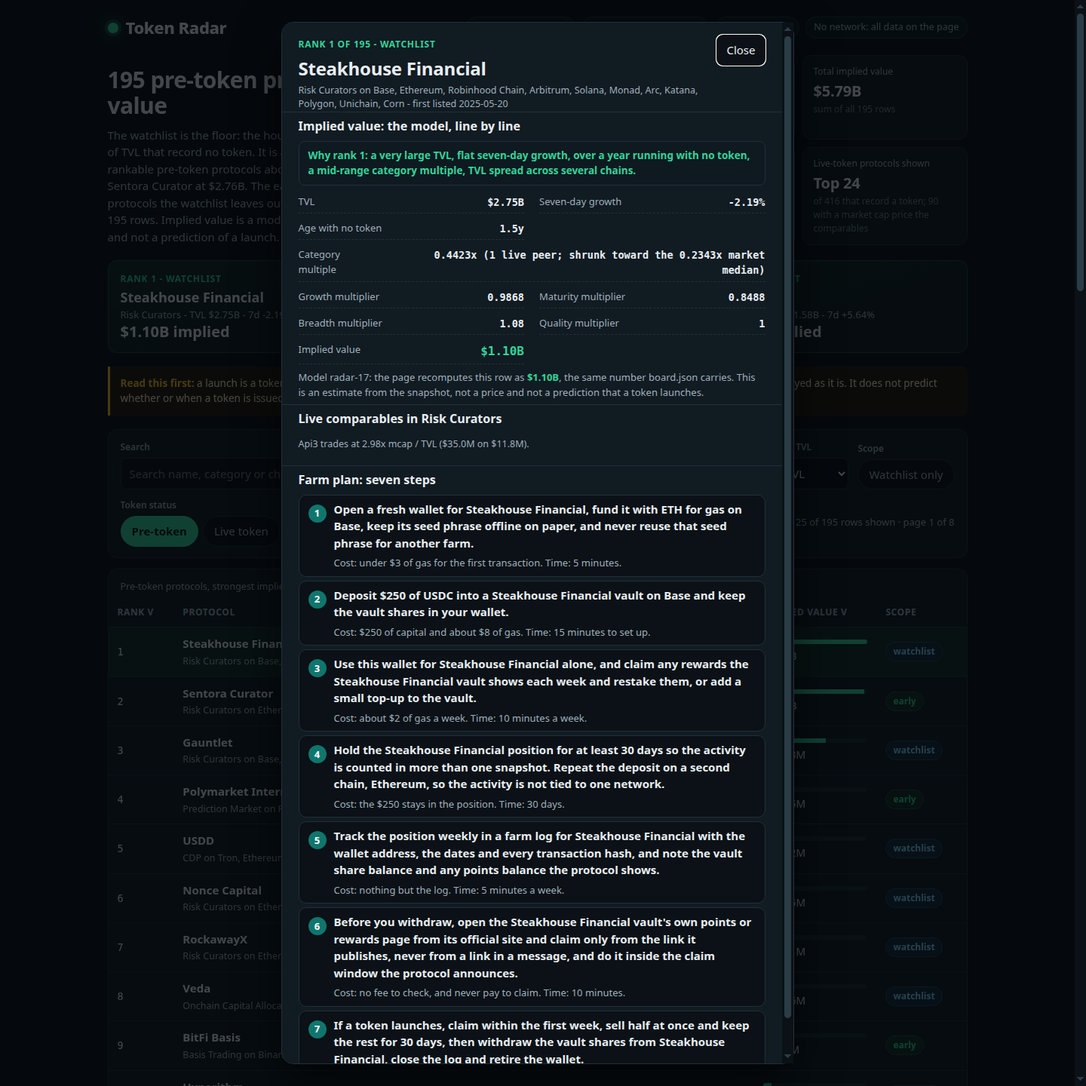
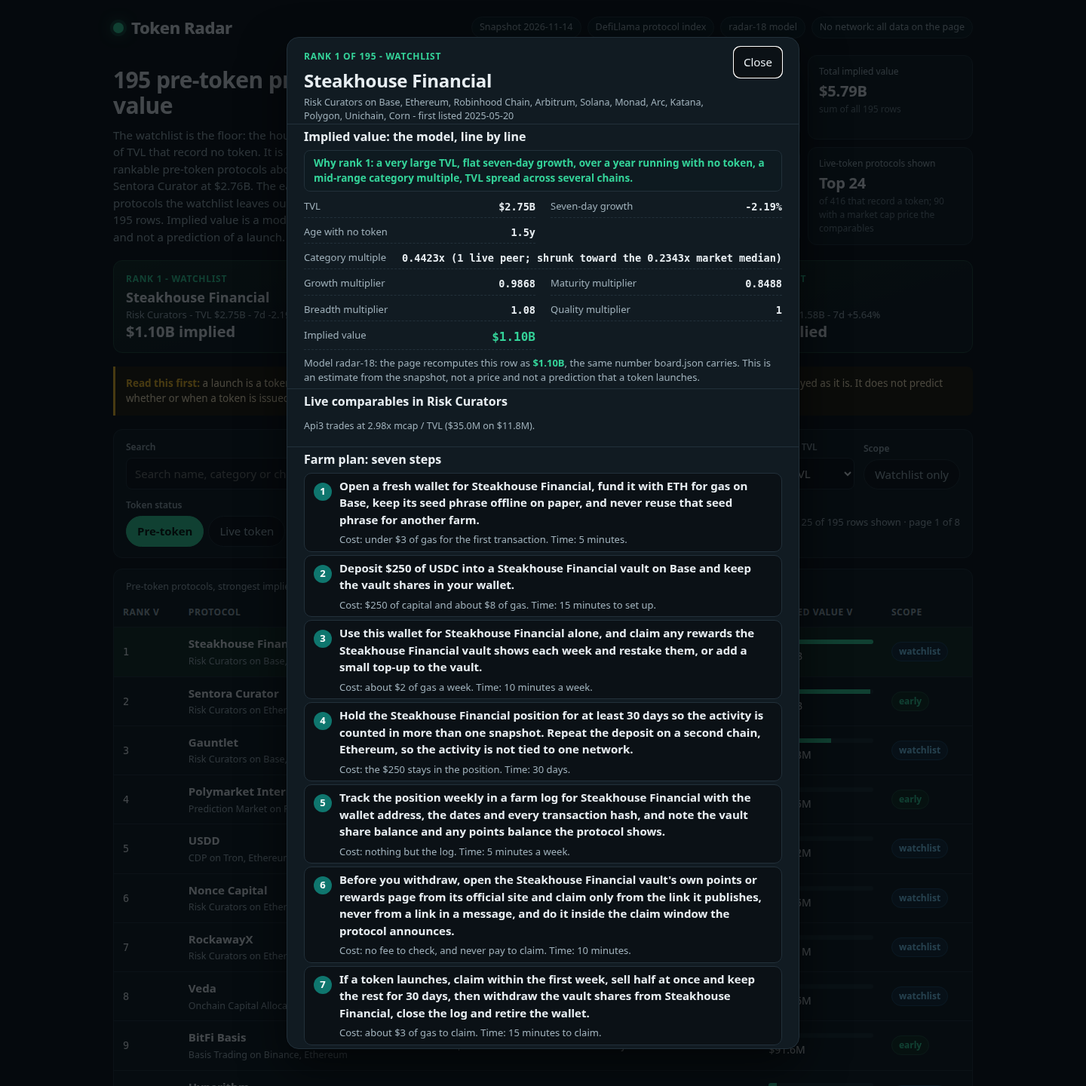
Token Radar radar-18: fix DEX shadow over Indexes, give Leveraged Farming and Uncollateralized Lending their own shapes, settle USDD, DeFi Saver, dTAO and Polymarket, stop inventing claim pages, fit the detail dialog
- includes('dex') also matched Indexes, so Set Protocol was told to LP
  into a pool instead of buying its index token; the test is now the
  category itself, and the unreachable index shape is live
- Leveraged Farming (3F, Origami) no longer shares the DEX shape: both
  deposit into a leveraged vault and keep the receipt token
- Uncollateralized Lending (3Jane) no longer shares the collateralized
  lending shape: deposit USDC into the credit market, keep the USD3-style
  receipt token, no collateral and no borrow against the deposit
- PLAN_CORRECTIONS gains USDD (vaults take TRX/USDT/WBTC, never USDC;
  yield is sUSDD), DeFi Saver (a management layer that takes no
  deposits), Bittensor dTAO (staking, not an AMM pool) and Polymarket
  (no points program; claim step only, to its pUSD rewards page)
- Lightning's claim step no longer names a routing rewards page that
  does not exist; routing fees land in the channel balance
- RWA action is 'Buy or mint' and the exit 'sell or redeem' (Lofty sells
  property shares, it mints nothing)
- Detail dialog tightened so all seven steps with cost lines fit in a
  1440px view; screenshots retaken for the radar-18 label
- Board unchanged: same 195 rows, ranks and implied values; only farm
  plans move, on 25 rows

diff --git a/lib/model.ts b/lib/model.ts
@@ -1,4 +1,4 @@
-// Token Radar's model (radar-16): one sealed snapshot in, one ranked board out.
+// Token Radar's model (radar-18): one sealed snapshot in, one ranked board out.
 //
 // The board covers every slug in the snapshot's watchlist (the floor, never a
 // ceiling) plus every other rankable pre-token protocol the watchlist leaves
@@ -122,7 +122,7 @@ export const MODEL: ModelConstants = {
 };
 
 /** The model's version label: the dashboard names it. */
-export const MODEL_VERSION = 'radar-17';
+export const MODEL_VERSION = 'radar-18';
 
 /** How many live-token protocols the Live token view carries, by market cap. */
 export const LIVE_ROWS = 24;
@@ -511,13 +511,28 @@ function actionFor(p: SnapshotProtocol, capital: number, chain: string): string 
   const name = p.name;
   if (c.includes('collateral market')) return `Deposit $${capital} of wstETH into a ${name} vault on ${chain}, delegate the collateral to an operator securing a network, and keep the vault shares in your wallet.`;
   if (c.includes('interest rate')) return `Deposit $${capital} of USDC as margin on ${name} on ${chain} and open one small long or short position on a funding-rate market, then hold it to maturity.`;
+  if (c.includes('uncollateralized')) return `Deposit $${capital} of USDC into the ${name} credit market on ${chain} to fund uncollateralized loans and keep the yield-bearing receipt token in your wallet.`;
   if (c.includes('lend') || c.includes('cdp') || c.includes('collateral')) return `Supply $${capital} of USDC to ${name} on ${chain} as collateral and borrow a small amount against it, then repay the borrow.`;
-  if (c.includes('dex') || c.includes('leveraged farm')) return `Provide $${capital} of liquidity to ${name}'s main pool on ${chain} in a balanced pair and keep the position open.`;
+  if (c === 'dexs') return `Provide $${capital} of liquidity to ${name}'s main pool on ${chain} in a balanced pair and keep the position open.`;
+  // A leveraged vault is not a pool: 3F loops tokenized RWAs through
+  // Morpho and Origami loops yield-bearing assets through lending
+  // markets, and neither has a main pool to provide liquidity to. The
+  // old shape lumped them with the DEXs, so both plans told their farmer
+  // to LP into a pool that does not exist. And the DEX test used to be
+  // includes('dex'), which also caught Indexes — "indexes" contains
+  // "dex" — so Set Protocol's plan told its farmer to LP into a pool
+  // instead of buying its index token; the index shape below it was
+  // unreachable. The test is now the category itself.
+  if (c.includes('leveraged farm')) return `Deposit $${capital} of USDC into a ${name} leveraged vault on ${chain} and keep the vault receipt token in your wallet.`;
   if (c.includes('yield') || c.includes('curator') || c.includes('allocator') || c.includes('vault')) return `Deposit $${capital} of USDC into a ${name} vault on ${chain} and keep the vault shares in your wallet.`;
   if (c.includes('perpetual') || c.includes('derivative')) return `Deposit $${capital} of USDC as margin on ${name} on ${chain}, open one small hedged trade, then close it.`;
   if (c.includes('prediction')) return `Fund your ${name} account with $${capital} on ${chain} and place one small market position.`;
   if (c.includes('stable')) return `Mint or deposit $${capital} of the stable asset through ${name} on ${chain} and hold it in your wallet.`;
-  if (c.includes('rwa')) return `Mint $${capital} of ${name}'s yield-bearing asset on ${chain} and hold it for the full period.`;
+  // "Buy or mint": some RWA assets are minted (OpenTrade, Plume Vaults)
+  // and some are bought on a marketplace (Lofty sells tokenized property
+  // shares, it mints nothing for the buyer), so one verb was wrong for
+  // half the category.
+  if (c.includes('rwa')) return `Buy or mint $${capital} of ${name}'s yield-bearing asset on ${chain} and hold it for the full period.`;
   if (c.includes('insurance')) return `Buy $${capital} of cover from ${name} on ${chain} and keep the policy active.`;
   if (c.includes('basis') || c.includes('options')) return `Deposit $${capital} of USDC into ${name}'s strategy on ${chain} and keep the position open.`;
   if (c.includes('liquidity manager')) return `Deposit $${capital} of USDC into a ${name} managed pool on ${chain} and keep the managed position open.`;
@@ -558,8 +573,10 @@ function weeklyActionFor(p: SnapshotProtocol): string {
   const name = p.name;
   if (c.includes('collateral market')) return `Check the rewards the ${name} vault paid that week and leave them compounding instead of withdrawing them.`;
   if (c.includes('interest rate')) return `Check the funding-rate position on ${name} each week and adjust it when the underlying rate moves.`;
+  if (c.includes('uncollateralized')) return `Check the yield the ${name} credit market paid that week and leave it compounding instead of withdrawing it.`;
   if (c.includes('lend') || c.includes('cdp') || c.includes('collateral')) return `Repay a small part of the borrow on ${name} and borrow it back, so the position moves every week instead of sitting still.`;
-  if (c.includes('dex') || c.includes('leveraged farm')) return `Swap a small amount through ${name}'s main pool each week, alternating the direction, so the wallet trades as well as holds.`;
+  if (c === 'dexs') return `Swap a small amount through ${name}'s main pool each week, alternating the direction, so the wallet trades as well as holds.`;
+  if (c.includes('leveraged farm')) return `Check the vault's leverage ratio on ${name} each week and add a small top-up when it drifts from its target, so the position does not sit untouched.`;
   if (c.includes('yield') || c.includes('curator') || c.includes('allocator') || c.includes('vault')) return `Claim any rewards the ${name} vault shows each week and restake them, or add a small top-up to the vault.`;
   if (c.includes('perpetual') || c.includes('derivative')) return `Open and close one small hedged trade on ${name} each week, keeping the size tiny and the margin untouched.`;
   if (c.includes('prediction')) return `Settle one small market position on ${name} each week and open the next one only after the first closes.`;
@@ -590,8 +607,10 @@ function trackFor(p: SnapshotProtocol): string {
   let note: string;
   if (c.includes('collateral market')) note = `the vault share balance, the operator it is delegated to and any points balance the protocol shows.`;
   else if (c.includes('interest rate')) note = `the margin balance and the fixed rate the position locked in.`;
+  else if (c.includes('uncollateralized')) note = `the receipt token balance and the yield it paid that week.`;
   else if (c.includes('lend') || c.includes('cdp') || c.includes('collateral')) note = `the borrow amount, the collateral ratio and the health factor.`;
-  else if (c.includes('dex') || c.includes('leveraged farm')) note = `the pool share and the fees the position earned.`;
+  else if (c === 'dexs') note = `the pool share and the fees the position earned.`;
+  else if (c.includes('leveraged farm')) note = `the vault receipt token balance, the leverage ratio and the yield it earned that week.`;
   else if (c.includes('yield') || c.includes('curator') || c.includes('allocator') || c.includes('vault')) note = `the vault share balance and any points balance the protocol shows.`;
   else if (c.includes('perpetual') || c.includes('derivative')) note = `the margin balance and the outcome of each trade.`;
   else if (c.includes('prediction')) note = `each settled position and its outcome.`;
@@ -658,9 +677,18 @@ function gasTokenFor(chain: string): string | null {
 function claimFor(p: SnapshotProtocol): string {
   const c = (p.category ?? '').toLowerCase();
   const name = p.name;
+  // Two claim steps the generic page cannot carry. A Lightning channel
+  // pays routing fees straight into the channel balance: there is no
+  // rewards page, and nothing to claim. And an uncollateralized credit
+  // market pays its yield through the receipt token, with no rewards
+  // page announced either, so the step says to check for an
+  // announcement instead of naming a page that does not exist.
+  if (c.includes('payments')) return `Check the channel balance in your own node software for the routing fees the channel earned — they land in the balance automatically, there is no rewards page to claim from, and never pay to claim or follow a claim link in a message.`;
+  if (c.includes('uncollateralized')) return `Before you withdraw, check ${name}'s own site for any rewards announcement and claim only from the link it publishes, never from a link in a message; if it announces no rewards, there is nothing to claim.`;
   let page: string;
   if (c.includes('yield') || c.includes('curator') || c.includes('allocator') || c.includes('vault')) page = `the ${name} vault's own points or rewards page`;
-  else if (c.includes('dex') || c.includes('leveraged farm')) page = `${name}'s own pool incentives or points page`;
+  else if (c === 'dexs') page = `${name}'s own pool incentives or points page`;
+  else if (c.includes('leveraged farm')) page = `${name}'s own leveraged vault rewards page`;
   else if (c.includes('collateral market')) page = `${name}'s own vault rewards page`;
   else if (c.includes('interest rate')) page = `${name}'s own funding-rate rewards page`;
   else if (c.includes('lend') || c.includes('cdp') || c.includes('collateral')) page = `${name}'s own lending rewards or points page`;
@@ -677,7 +705,6 @@ function claimFor(p: SnapshotProtocol): string {
   else if (c.includes('cedefi')) page = `${name}'s own yield rewards page`;
   else if (c === 'farm') page = `${name}'s own farm rewards page`;
   else if (c.includes('anchor btc') || c.includes('decentralized btc')) page = `${name}'s own BTC rewards page`;
-  else if (c.includes('payments')) page = `${name}'s own routing rewards page`;
   else if (c.includes('otc')) page = `${name}'s own trading rewards page`;
   else if (c === 'restaking') page = `${name}'s own restaking rewards page`;
   else if (c.includes('governance')) page = `${name}'s own governance rewards page`;
@@ -694,14 +721,16 @@ function exitFor(p: SnapshotProtocol): string {
   const head = `If a token launches, claim within the first week, sell half at once and keep the rest for 30 days, then `;
   const tail = `, close the log and retire the wallet.`;
   if (c.includes('yield') || c.includes('curator') || c.includes('allocator') || c.includes('vault')) return `${head}withdraw the vault shares from ${name}${tail}`;
-  if (c.includes('dex') || c.includes('leveraged farm')) return `${head}remove the liquidity from ${name}${tail}`;
+  if (c === 'dexs') return `${head}remove the liquidity from ${name}${tail}`;
+  if (c.includes('leveraged farm')) return `${head}redeem the vault receipt token from ${name} and withdraw the underlying asset${tail}`;
   if (c.includes('collateral market')) return `${head}withdraw the collateral from the ${name} vault${tail}`;
   if (c.includes('interest rate')) return `${head}close the funding-rate position on ${name}${tail}`;
+  if (c.includes('uncollateralized')) return `${head}withdraw the deposit from the ${name} credit market${tail}`;
   if (c.includes('lend') || c.includes('cdp') || c.includes('collateral')) return `${head}repay the borrow, withdraw the collateral from ${name}${tail}`;
   if (c.includes('perpetual') || c.includes('derivative')) return `${head}close any open trade, withdraw the margin from ${name}${tail}`;
   if (c.includes('prediction')) return `${head}close any open position on ${name}${tail}`;
   if (c.includes('stable')) return `${head}redeem the stable asset from ${name}${tail}`;
-  if (c.includes('rwa')) return `${head}redeem the yield-bearing asset from ${name}${tail}`;
+  if (c.includes('rwa')) return `${head}sell or redeem the yield-bearing asset from ${name}${tail}`;
   if (c.includes('insurance')) return `${head}cancel the cover from ${name}${tail}`;
   if (c.includes('basis') || c.includes('options')) return `${head}close the strategy position on ${name}${tail}`;
   if (c.includes('liquidity manager')) return `${head}remove the managed liquidity from ${name}${tail}`;
@@ -848,6 +877,62 @@ const PLAN_CORRECTIONS: Record<string, PlanCorrection> = {
     why: 'The snapshot lists Abstract\u2019s chains as ["Ethereum"] — it settles on Ethereum — but Abstract is its own Ethereum L2 network, and its gas is ETH paid on Abstract, not on Ethereum mainnet.',
     chainLabel: 'Abstract',
     gasToken: 'ETH',
+  },
+  // USDD 2.0 is a vault stablecoin, so the CDP shape is half right: a
+  // farmer does deposit collateral and mint USDD. But the shape names
+  // USDC as the collateral, and USDD vaults take TRX, sTRX, USDT or
+  // WBTC (ETH and WBTC on Ethereum), never USDC — USDC only swaps 1:1
+  // for USDD through the Peg Stability Module. And the yield does not
+  // come from a rewards page: the minted USDD is staked as sUSDD, and
+  // the staking rate accrues automatically in the sUSDD exchange rate.
+  // (DefiLlama stablecoin page; BingX USDD 2.0 guide.)
+  usdd: {
+    why: 'DefiLlama lists USDD under CDP, so the CDP shape would tell its farmer to supply USDC as collateral — but USDD 2.0 vaults take TRX, sTRX, USDT or WBTC, never USDC, and the yield comes from staking the minted USDD as sUSDD.',
+    action: (p, capital, chain) => `Stake $${capital} of TRX in a USDD vault on ${chain} to mint USDD, then stake the USDD as sUSDD to earn the staking rate, and keep the sUSDD in your wallet.`,
+    weekly: (p) => `Check the sUSDD balance and the staking rate ${p.name} shows each week, and add a small TRX top-up to the vault when the balance is flat.`,
+    track: (p) => `Track the position weekly in a farm log for ${p.name} with the wallet address, the dates and every transaction hash, and note the vault collateral ratio, the sUSDD balance and the staking rate it shows.`,
+    claim: (p) => `sUSDD yield accrues automatically in its exchange rate, so there is no rewards page to claim from — check the rate on the official ${p.name} page, and never pay to claim or follow a claim link in a message.`,
+    exit: (p) => `If a token launches, claim within the first week, sell half at once and keep the rest for 30 days, then redeem the sUSDD from ${p.name} for USDD, repay the vault mint and withdraw the TRX collateral, close the log and retire the wallet.`,
+  },
+  // DeFi Saver is a non-custodial management layer, not a protocol that
+  // takes deposits: "Your assets are never deposited on DeFi Saver —
+  // we're just an additional layer between you and the protocols." The
+  // CDP shape would tell its farmer to supply USDC to DeFi Saver itself
+  // as collateral and borrow against it, which no screen on the site
+  // lets them do. Its plan opens a position through DeFi Saver on a
+  // protocol it manages, and turns on the automation that is the reason
+  // to use it. (defisaver.com)
+  'defi-saver-asset-management': {
+    why: 'DefiLlama lists Defi Saver Asset Management under CDP Manager, so the CDP shape would tell its farmer to supply USDC to it as collateral — but DeFi Saver is a non-custodial management layer that takes no deposits at all.',
+    action: (p, capital, chain) => `Open a collateralized position through ${p.name} on ${chain} — deposit ETH as collateral into a vault it manages, borrow a small amount of stablecoin, and turn on its automation to keep the ratio safe.`,
+    weekly: (p) => `Check the automation ${p.name} runs on the position each week and adjust the stop-loss or leverage rules when the collateral ratio moves.`,
+    track: (p) => `Track the position weekly in a farm log for ${p.name} with the wallet address, the dates and every transaction hash, and note the collateral ratio, the health factor and each automation action it took that week.`,
+    claim: (p) => `${p.name} runs no points program — check its official site for any rewards announcement; if it announces none, there is nothing to claim, and never pay to claim or follow a claim link in a message.`,
+    exit: (p) => `If a token launches, claim within the first week, sell half at once and keep the rest for 30 days, then turn off the automation, repay the borrow and withdraw the collateral through ${p.name}, close the log and retire the wallet.`,
+  },
+  // dTAO is Bittensor's staking system, not an AMM pool: staking TAO
+  // into a subnet swaps it into that subnet's alpha token through the
+  // subnet pool, and rewards are paid in alpha. The DEX shape would
+  // tell its farmer to provide liquidity to a "main pool" in a balanced
+  // pair, swap through it weekly and remove the liquidity — none of
+  // which dTAO offers. (Bittensor docs: Staking.)
+  'bittensor-dtao': {
+    why: 'DefiLlama lists Bittensor dTAO under Dexs, so the DEX shape would tell its farmer to provide liquidity to a main pool in a balanced pair — but dTAO is Bittensor\u2019s staking system, not an AMM pool.',
+    action: (p, capital, chain) => `Stake $${capital} of TAO with a validator on a Bittensor subnet through ${p.name} on ${chain} and hold the subnet's alpha tokens in your wallet.`,
+    weekly: (p) => `Check the alpha rewards the subnet paid that week and restake them, or add a small top-up to the stake.`,
+    track: (p) => `Track the position weekly in a farm log for ${p.name} with the wallet address, the dates and every transaction hash, and note the staked TAO balance, the alpha balance and the rewards it earned that week.`,
+    claim: (p) => `dTAO rewards are paid in alpha automatically, so there is no rewards page to claim from — check the position in your own wallet, and never pay to claim or follow a claim link in a message.`,
+    exit: (p) => `If a token launches, claim within the first week, sell half at once and keep the rest for 30 days, then unstake the alpha from the subnet on ${p.name} and swap it back to TAO, close the log and retire the wallet.`,
+  },
+  // Polymarket runs no points program and has no token claim page: its
+  // rewards are Liquidity Rewards and Holding Rewards, paid in pUSD on
+  // its rewards page. Only the claim step is wrong — the rest of the
+  // prediction shape (fund the account, place and settle positions) is
+  // right — so only the claim step is corrected here.
+  // (Polymarket docs; TraderComps, Oct 2026.)
+  'polymarket-international': {
+    why: 'The prediction shape would send its farmer to a "market rewards page" to claim — but Polymarket runs no points program and has no token claim page; its rewards are Liquidity Rewards and Holding Rewards, paid in pUSD.',
+    claim: (p) => `Check ${p.name}'s own rewards page for the liquidity rewards and holding yield it pays in pUSD — there is no points program and no token claim page; if a token is ever announced, claim only from the link the official site publishes, never from a link in a message.`,
   },
 };
 

diff --git a/dashboard/app.js b/dashboard/app.js
@@ -1,4 +1,4 @@
-// Token Radar's dashboard (radar-17). It reads window.RADAR (written beside
+// Token Radar's dashboard (radar-18). It reads window.RADAR (written beside
 // dashboard/ by main.ts from the same board.json) and renders the ranked
 // board, the filters, a per-protocol detail view with the model's own
 // breakdown and the protocol's farm plan, and the live-token set kept apart.
@@ -438,7 +438,7 @@
       el('h2', { text: 'How implied value is computed' }),
       el('p', { class: 'sub', text: 'Every row is scored by one function of the snapshot figures. The scoring never special-cases a protocol name, and no row is hand-picked. The comparable is the median market-cap-to-TVL ratio of the live-token protocols in the same category, computed from this snapshot at run time, then shrunk toward the market median in log space with a weight of ' + m.shrink_peers + ' peers: ratios multiply, so the shrinkage averages logarithms, and the raw median is never clamped before shrinking. A category with one live peer never prices at its peer\'s ratio, and a category with no live peer uses the market median outright.' }),
       el('p', { class: 'sub', text: 'The shrinkage is not a guess at a weight: ' + thin + ' of the ' + thinTotal + ' categories priced here have fewer than three live peers, so most multiples would rest on one or two protocols without it. Shrinking in log space matters because the old arithmetic shrink clamped the raw median first: seven single-peer categories, from Options at 1.51x to Prediction Market at 400.20x, all priced at one identical multiple, and a category whose peers trade at 0.002x was lifted to the market by the floor. Now each prices from its own peer, still pulled most of the way to the market, and still capped. With no shrinkage the Risk Curators rows would all price at the 0.80 cap on a single peer; shrunk, they price at ' + (DATA.multiples['Risk Curators'] === undefined ? 'the market median' : DATA.multiples['Risk Curators'].toFixed(4) + 'x') + '.' }),
-      el('p', { class: 'sub', text: 'Farm plans follow the protocol\u2019s category — except where the snapshot\u2019s own record mislabels the protocol, and then the plan follows the protocol\u2019s own documentation instead. Four plans are corrected that way, in one table in the code: Hive Protocol is B\u00b2 Hive, a BTC staking pool listed as a chain, so its plan stakes BTC for B2 rewards; Firelight is the underwriting side of a cover design listed as insurance, so its plan stakes FXRP for stXRP; Mezo Earn locks BTC for a veBTC vote, not USDC in a governance vault; and Abstract is its own Ethereum L2, not Ethereum mainnet, so its plan runs on Abstract. The scoring never names a protocol; these four are plan corrections, not a hardcoded ranking.' }),
+      el('p', { class: 'sub', text: 'Farm plans follow the protocol\u2019s category — except where the snapshot\u2019s own record mislabels the protocol, and then the plan follows the protocol\u2019s own documentation instead. Eight plans are corrected that way, in one table in the code: Hive Protocol is B\u00b2 Hive, a BTC staking pool listed as a chain, so its plan stakes BTC for B2 rewards; Firelight is the underwriting side of a cover design listed as insurance, so its plan stakes FXRP for stXRP; Mezo Earn locks BTC for a veBTC vote, not USDC in a governance vault; Abstract is its own Ethereum L2, not Ethereum mainnet, so its plan runs on Abstract; USDD\u2019s vaults take TRX, USDT or WBTC as collateral, never USDC, and its yield comes from sUSDD; DeFi Saver is a management layer that takes no deposits, so its plan opens a position through it and automates it; Bittensor dTAO is a staking system, not an AMM pool, so its plan stakes TAO for alpha; and Polymarket runs no points program, so its plan checks the rewards page that pays in pUSD instead of a claim page. The scoring never names a protocol; these eight are plan corrections, not a hardcoded ranking.' }),
       el('div', { class: 'formula' },
         'multiple = exp((peers x ln(categoryMedian) + ' + m.shrink_peers + ' x ln(marketMedian)) / (peers + ' + m.shrink_peers + ')), clamped to [' + m.multiple_floor + ', ' + m.multiple_cap + ']'
       ),

diff --git a/dashboard/app.css b/dashboard/app.css
@@ -87,27 +87,27 @@ td.num{font-family:var(--mono);font-size:13.5px}
 .note b{color:var(--amb)}
 dialog.detail{border:1px solid var(--line);background:var(--panel);color:var(--ink);border-radius:16px;max-width:680px;width:calc(100vw - 32px);max-height:96vh;overflow:auto;padding:0;box-shadow:0 24px 60px rgba(0,0,0,.6)}
 dialog.detail::backdrop{background:rgba(3,7,10,.72)}
-.detail-head{display:flex;justify-content:space-between;gap:16px;padding:16px 22px 0}
+.detail-head{display:flex;justify-content:space-between;gap:16px;padding:12px 22px 0}
 .detail-head .rank{font-size:12px;color:var(--sig);font-weight:700;text-transform:uppercase;letter-spacing:.06em}
 .detail-head h2{margin:4px 0 2px;font-size:24px;letter-spacing:-.01em}
 .detail-head p{margin:0;color:var(--mut)}
 .close{font:inherit;cursor:pointer;background:var(--bg);color:var(--ink);border:1px solid var(--line);border-radius:8px;padding:8px 12px;height:fit-content}
-.detail-section{padding:6px 22px;border-top:1px solid var(--line)}
-.detail-section h3{margin:0 0 8px;font-size:16px}
-.equation{display:grid;grid-template-columns:1fr 1fr;gap:6px 20px;margin-bottom:8px}
+.detail-section{padding:4px 22px;border-top:1px solid var(--line)}
+.detail-section h3{margin:0 0 6px;font-size:16px}
+.equation{display:grid;grid-template-columns:1fr 1fr;gap:5px 20px;margin-bottom:8px}
 .equation div{display:flex;justify-content:space-between;gap:12px;border-bottom:1px dashed var(--line);padding:4px 0}
 .equation div.wide{grid-column:1 / -1}
 .equation span{color:var(--mut);font-size:13px}
 .equation b{font-family:var(--mono);font-size:13.5px;white-space:normal;text-align:right}
 .equation .big b{font-size:16px;color:var(--sig)}
-.why{margin:0 0 8px;padding:8px 12px;background:var(--chip);border:1px solid var(--line);border-radius:8px;font-size:13.5px;color:var(--ink)}
+.why{margin:0 0 6px;padding:6px 12px;background:var(--chip);border:1px solid var(--line);border-radius:8px;font-size:13.5px;color:var(--ink)}
 .why b{color:var(--sig)}
-.steps{list-style:none;margin:0;padding:0;counter-reset:step;display:grid;gap:5px}
-.steps li{counter-increment:step;background:var(--bg);border:1px solid var(--line);border-radius:10px;padding:7px 14px 7px 46px;position:relative}
+.steps{list-style:none;margin:0;padding:0;counter-reset:step;display:grid;gap:4px}
+.steps li{counter-increment:step;background:var(--bg);border:1px solid var(--line);border-radius:10px;padding:5px 14px 5px 46px;position:relative}
 .steps li::before{content:counter(step);position:absolute;left:12px;top:12px;width:24px;height:24px;border-radius:50%;background:var(--sig-dk);color:#fff;font-weight:700;font-size:13px;display:grid;place-items:center}
 .steps li b{display:block;margin-bottom:3px}
 .steps .cost{color:var(--mut);font-size:13px}
-.verify{font-size:13px;color:var(--mut);margin:8px 0 0}
+.verify{font-size:13px;color:var(--mut);margin:6px 0 0}
 .verify b{color:var(--sig)}
 .foot{color:var(--dim);font-size:12.5px;padding:4px 2px}
 @media (max-width:760px){

diff --git a/main.ts b/main.ts
@@ -1,4 +1,4 @@
-// Token Radar (radar-17): the entry program, Node 22, standard library only.
+// Token Radar (radar-18): the entry program, Node 22, standard library only.
 //
 // It reads the sealed snapshot from /input/snapshot.json (or --input
 // <file|dir>), scores every rankable pre-token protocol with the model in

diff --git a/README.md b/README.md
@@ -6,6 +6,52 @@ staked or bridged product of one that trades, ranks them by what their launch
 would be worth, and hands in a web dashboard with the board, a detail view
 for every protocol, filters, and a farm plan for each row.
 
+## The model (radar-18)
+
+Radar-18 keeps radar-17's formula and every implied value, and fixes the
+farm plans the category shape got wrong in the fourth miscategorization
+round — plus one real bug. First, the bug: the DEX shape's test was
+`includes('dex')`, which also matches Indexes — "indexes" contains
+"dex" — so Set Protocol (rank 171), the board's only Indexes row, was
+told to provide liquidity to a main pool in a balanced pair, swap
+through it weekly and remove it, instead of buying its index token,
+and the index shape written for it was unreachable in all five shape
+functions. The test is now the category itself. Second, Leveraged
+Farming gets its own shape: 3F (rank 79) is a vault protocol built on
+Morpho that loops tokenized RWAs, and Origami Finance (rank 91) loops
+yield-bearing assets through lending markets into receipt tokens — and
+neither has a main pool to provide liquidity to, so both plans now
+deposit into a leveraged vault and keep the receipt token. Third,
+Uncollateralized Lending gets its own shape: 3Jane (rank 122) is a
+credit market where lenders deposit USDC and mint the yield-bearing
+USD3 receipt token while borrowers draw uncollateralized lines on a
+credit score — nobody posts collateral and nobody borrows against a
+deposit — so its plan now deposits into the credit market and keeps the
+receipt token. Fourth, four more plans join the corrections table: USDD
+(rank 5) — its 2.0 vaults take TRX, sTRX, USDT or WBTC as collateral,
+never USDC, and its yield comes from staking the minted USDD as sUSDD,
+which accrues automatically, so there is no rewards page to claim
+from; DeFi Saver Asset Management (rank 20) — DeFi Saver is a
+non-custodial management layer that takes no deposits at all, so its
+plan opens a position through it and turns on its automation; Bittensor
+dTAO (rank 11) — dTAO is Bittensor's staking system, not an AMM pool,
+so its plan stakes TAO with a validator for a subnet's alpha tokens;
+and Polymarket International (rank 4) — it runs no points program and
+has no token claim page, so only its claim step changes, to the rewards
+page that pays Liquidity Rewards and Holding Rewards in pUSD. Fifth,
+two claim steps stop inventing pages: Lightning Network (rank 26)
+routing fees land in the channel balance automatically, so its claim
+step now says that instead of naming a routing rewards page that does
+not exist. Sixth, RWA wording: "Mint" becomes "Buy or mint" and the
+exit "redeem" becomes "sell or redeem", because Lofty sells tokenized
+property shares rather than minting them. Seventh, the detail dialog
+fits: its steps and sections are tightened so all seven steps with
+their cost lines fit inside a 1440px-tall view for the rank-1 row —
+step 7's cost line used to sit below the fold in the shipped detail
+screenshot. The board is unchanged: same 195 rows, same ranks, same
+implied values; only farm plans move, on 25 rows, and the screenshots
+are retaken for the radar-18 label.
+
 ## The model (radar-17)
 
 Radar-17 keeps radar-16's formula and every implied value, and fixes the
@@ -310,15 +356,21 @@ rows whose first chain was not a household name name a verified token,
 Tempo names a USD stablecoin because it has no native gas token, and Proton
 says transactions carry no gas fee because it charges none. No row is left
 on the generic wording: BSquared is settled (BTC on the rollup, where the
-farm runs; B2 is gas only on the Hub). Four plans are corrected against the
+farm runs; B2 is gas only on the Hub). Eight plans are corrected against the
 snapshot's own record, in one table (see Snapshot corrections below): Hive
 Protocol is B² Hive, the network's own BTC staking pool, not a chain, so its
 plan stakes BTC for B2 rewards instead of bridging onto a network; Firelight
 is the underwriting side of an insurance design, not a buyer of cover, so its
 plan stakes FXRP in its Launch Vault for stXRP and Firelight Points instead
 of buying, renewing and cancelling cover; Mezo Earn locks BTC for a veBTC
-vote, not USDC in a governance vault; and Abstract is its own Ethereum L2,
-not Ethereum mainnet, so its plan runs on Abstract. The weekly action, the number worth
+vote, not USDC in a governance vault; Abstract is its own Ethereum L2,
+not Ethereum mainnet, so its plan runs on Abstract; USDD's vaults take TRX,
+USDT or WBTC as collateral, never USDC, and its yield comes from sUSDD;
+DeFi Saver is a management layer that takes no deposits, so its plan opens a
+position through it and automates it; Bittensor dTAO is a staking system, not
+an AMM pool, so its plan stakes TAO for alpha; and Polymarket runs no points
+program, so its plan checks the rewards page that pays in pUSD instead of a
+claim page. Eight plans in all. The weekly action, the number worth
 logging, the page that would carry a
 claim and the way the position unwinds are all shaped by the category, so a
 lender, a pool and a vault do not farm the same way. Every one of the 32
@@ -336,7 +388,7 @@ them at (flat, and 365 days), never as the oldest or the fastest.
 
 ## Snapshot corrections
 
-Four farm plans follow the protocol's own documentation instead of the
+Eight farm plans follow the protocol's own documentation instead of the
 snapshot's category, because the snapshot's record mislabels the protocol.
 They live in one table, PLAN_CORRECTIONS in lib/model.ts, keyed by slug,
 each entry stating why the record is wrong and giving only the steps the
@@ -366,6 +418,28 @@ and the scoring never names a protocol.
   because it settles on Ethereum — but Abstract is its own Ethereum L2
   network (ZK Stack), and its gas is ETH paid on Abstract. The plan runs
   on Abstract instead of Ethereum mainnet.
+- USDD (rank 5): DefiLlama lists it under CDP, and the CDP shape would
+  tell its farmer to supply USDC as collateral — but USDD 2.0 vaults
+  take TRX, sTRX, USDT or WBTC (ETH and WBTC on Ethereum), never USDC,
+  and the yield comes from staking the minted USDD as sUSDD, which
+  accrues automatically in its exchange rate, so there is no rewards
+  page to claim from (DefiLlama stablecoin page; BingX USDD 2.0 guide).
+- Defi Saver Asset Management (rank 20): DefiLlama lists it under CDP
+  Manager, and the CDP shape would tell its farmer to supply USDC to it
+  as collateral — but DeFi Saver is a non-custodial management layer
+  that takes no deposits at all ("Your assets are never deposited on
+  DeFi Saver"). The plan opens a collateralized position through it on
+  a protocol it manages and turns on its automation (defisaver.com).
+- Bittensor dTAO (rank 11): DefiLlama lists it under Dexs, and the DEX
+  shape would tell its farmer to provide liquidity to a main pool in a
+  balanced pair — but dTAO is Bittensor's staking system, not an AMM
+  pool: staking TAO into a subnet swaps it into that subnet's alpha
+  token, and rewards are paid in alpha (Bittensor docs: Staking).
+- Polymarket International (rank 4): the prediction shape would send
+  its farmer to a "market rewards page" to claim — but Polymarket runs
+  no points program and has no token claim page; its rewards are
+  Liquidity Rewards and Holding Rewards, paid in pUSD. Only the claim
+  step is corrected (Polymarket docs; TraderComps, Oct 2026).
 
 ## Run it
 
